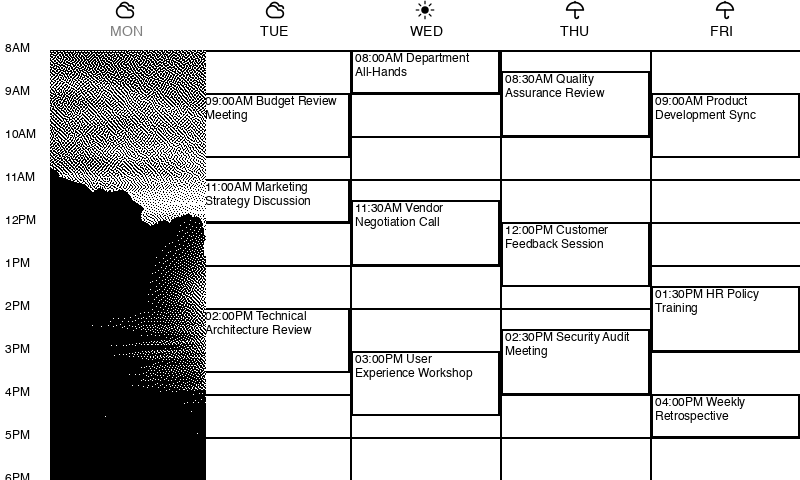
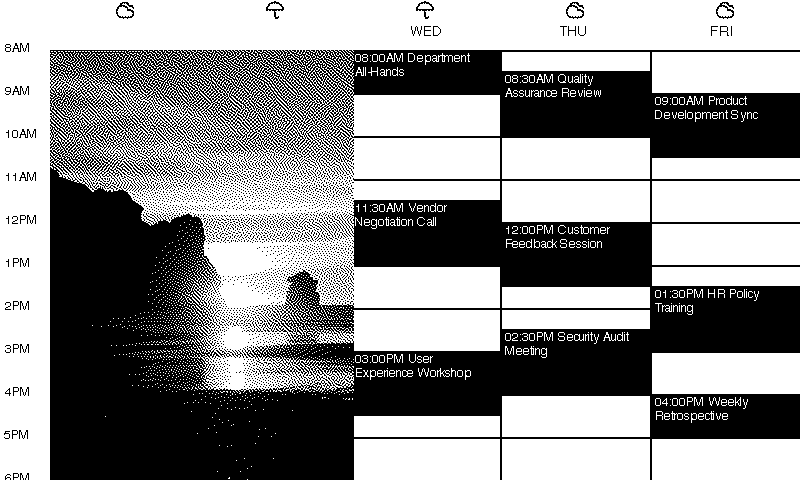
papercal - lighter background, no more svg

diff --git a/calendar_image.py b/calendar_image.py
@@ -3,22 +3,7 @@ from datetime import datetime
 from typing import List, Dict
 import hashlib
 import os
-import cairosvg
-import tempfile
 from weather import get_weather_data
-
-
-def svg_to_png(svg_path: str, png_path: str, width: int = 24, height: int = 24) -> None:
-    """
-    Convert SVG file to PNG using cairosvg with proper transparency handling
-    """
-    cairosvg.svg2png(
-        url=svg_path,
-        write_to=png_path,
-        output_width=width,
-        output_height=height,
-        background_color="white",  # Set white background for proper contrast
-    )
 
 
 def create_weekly_calendar_image(
@@ -52,8 +37,9 @@ def create_weekly_calendar_image(
         return bw_photo
 
     # Weekday: proceed with calendar image
-    img = Image.new("L", (800, 480), 255)  # 'L' mode for grayscale
-    draw = ImageDraw.Draw(img)
+    img = Image.new("1", (800, 480), 255)  # 'L' mode for grayscale
+    draw = ImageDraw.Draw(img, mode="1")
+
 
     # Define dimensions
     margin = 50
@@ -95,48 +81,36 @@ def create_weekly_calendar_image(
 
         # Draw day label
         draw.text((x - 15, margin - 25), day, fill=text_color, font=header_font)
-
         # Add weather info if available
         if i < len(weekday_weather):
             weather = weekday_weather[i]
-
             # Draw weather icon
             weather_icon_path = f"./weather_icons/{weather['icon']}"
             if os.path.exists(weather_icon_path):
-                # Create temporary PNG file
-                with tempfile.NamedTemporaryFile(
-                    suffix=".png", delete=False
-                ) as temp_png:
-                    try:
-                        svg_to_png(weather_icon_path, temp_png.name, 20, 20)
-                        weather_icon = Image.open(temp_png.name)
+                try:
+                    weather_icon = Image.open(weather_icon_path)
 
-                        # Convert to grayscale and invert for proper contrast on white background
-                        if weather_icon.mode == "RGBA":
-                            # Convert RGBA to RGB with white background first
-                            white_bg = Image.new(
-                                "RGB", weather_icon.size, (255, 255, 255)
-                            )
-                            white_bg.paste(
-                                weather_icon, mask=weather_icon.split()[-1]
-                            )  # Use alpha channel as mask
-                            weather_icon = white_bg
+                    # Convert to grayscale and invert for proper contrast on white background
+                    if weather_icon.mode == "RGBA":
+                        # Convert RGBA to RGB with white background first
+                        white_bg = Image.new(
+                            "1", weather_icon.size, (255, 255, 255)
+                        )
+                        white_bg.paste(
+                            weather_icon, mask=weather_icon.split()[-1]
+                        )  # Use alpha channel as mask
+                        weather_icon = white_bg
 
-                        # Convert to grayscale
-                        weather_icon = weather_icon.convert("L")
+                    # Convert to 1-bit monochrome
+                    weather_icon = weather_icon.convert("1")
 
-                        # Position icon above day label
-                        icon_x = int(x - 10)
-                        icon_y = int(margin - 50)
-                        img.paste(weather_icon, (icon_x, icon_y))
-                    except Exception as e:
-                        print(f"Error rendering weather icon: {e}")
-                    finally:
-                        # Clean up temporary PNG file
-                        try:
-                            os.unlink(temp_png.name)
-                        except OSError:
-                            pass
+                    # Position icon above day label
+                    icon_x = int(x - 10)
+                    icon_y = int(margin - 50)
+                    img.paste(weather_icon, (icon_x, icon_y))
+                except Exception as e:
+                    print(f"Error rendering weather icon: {e}")
+
 
             # Draw temperature range
             temp_text = f"{int(weather['temp_min'])}°-{int(weather['temp_max'])}°"
@@ -221,11 +195,11 @@ def create_weekly_calendar_image(
             x1 += offset * 10
 
             # Adjust colors based on whether the day is in the past
-            border_color = 128 if is_past_day else 0  # Darker gray for past events
+            border_color = 0 if is_past_day else 0  # Darker gray for past events
             fill_color = (
-                240 if is_past_day else 255
+                0 if is_past_day else 0
             )  # Slightly gray fill for past events
-            text_color = 128 if is_past_day else 0  # Gray text for past events
+            text_color = 255 if is_past_day else 255  # Gray text for past events
 
             # Draw event rectangle with adjusted colors
             draw.rectangle(

diff --git a/weather.py b/weather.py
@@ -97,14 +97,14 @@ def get_weather_icon(weather_code: int, date: str = None) -> str:
 
     # Available icons
     icons = [
-        "sun.svg",
-        "cloudy.svg",
-        "cloud-sun.svg",
-        "umbrella.svg",
-        "snowflake.svg",
-        "wind.svg",
-        "zap.svg",
-        "haze.svg",
+        "sun.png",
+        "cloudy.png",
+        "cloud-sun.png",
+        "umbrella.png",
+        "snowflake.png",
+        "wind.png",
+        "zap.png",
+        "haze.png",
     ]
 
     # Use date as seed for deterministic selection
@@ -114,23 +114,23 @@ def get_weather_icon(weather_code: int, date: str = None) -> str:
         random.seed(seed)
 
     if weather_code in [0, 1]:  # Clear sky, mainly clear
-        result = "sun.svg"
+        result = "sun.png"
     elif weather_code in [2]:  # Partly cloudy
-        result = "cloud-sun.svg"
+        result = "cloud-sun.png"
     elif weather_code in [3]:  # overcast
-        result = "cloudy.svg"
+        result = "cloudy.png"
     elif weather_code in [45, 48]:  # Fog
-        result = "haze.svg"
+        result = "haze.png"
     elif weather_code in [51, 53, 55, 56, 57]:  # Drizzle
-        result = "umbrella.svg"
+        result = "umbrella.png"
     elif weather_code in [61, 63, 65, 66, 67]:  # Rain
-        result = "umbrella.svg"
+        result = "umbrella.png"
     elif weather_code in [71, 73, 75, 77, 85, 86]:  # Snow
-        result = "snowflake.svg"
+        result = "snowflake.png"
     elif weather_code in [80, 81, 82]:  # Rain showers
-        result = "umbrella.svg"
+        result = "umbrella.png"
     elif weather_code in [95, 96, 99]:  # Thunderstorm
-        result = "zap.svg"
+        result = "zap.png"
     else:
         # Default to deterministic icon for unknown codes
         result = random.choice(icons)

diff --git a/image_to_esp.py b/image_to_esp.py
@@ -17,16 +17,14 @@ def prepare_image_data(image_path, target_width, target_height):
     """
     Loads an image, converts it to 1-bit monochrome (0 or 1),
     and flattens it into a 1D array suitable for the EPD.
-    Assumes pixels are either 0 (white/default) or 1 (black/inverted).
+    Uses threshold of 128 to convert grayscale to binary.
     """
     try:
         img = Image.open(image_path)
-        # Get pixel data; 0 for white, 255 for black in '1' mode
-        # We need 0 to be the "transparent" or "off" color (value of c),
-        # so let's map 255 (black) to 1 and 0 (white) to 0.
         pixel_data = []
         for pixel in img.getdata():
-            pixel_data.append(1 if pixel == 255 else 0)
+            # Use threshold of 128: values >= 128 become white (0), < 128 become black (1)
+            pixel_data.append(1 if pixel >= 128 else 0)
         return pixel_data
     except FileNotFoundError:
         print(f"Error: Image file not found at {image_path}")
